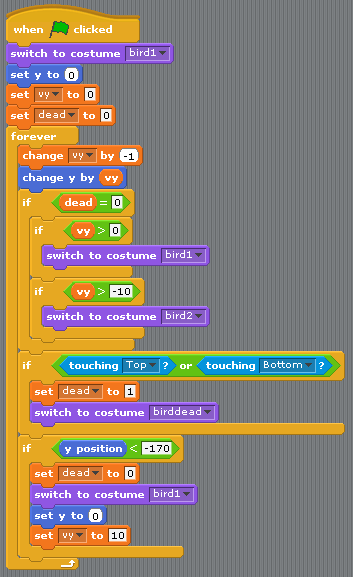
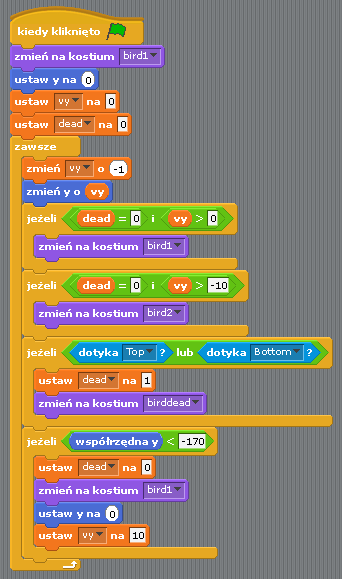
Translated Scratch screetshots

diff --git a/doc/from-scratch.rst b/doc/from-scratch.rst
@@ -60,12 +60,12 @@ W Scratchu osiągamy to tworząc dwa osobne skrypty dla górnej i dolnej rury.
 
 Podsumowując, co tu się dzieje:
 
-* Warunek ``x position < -240`` jest spełniony, gdy rura chowa się za lewą
+* Warunek ``współrzędna x < -240`` jest spełniony, gdy rura chowa się za lewą
   krawędzią ekranu — to sygnał do zresetowania położenia rur.
 * Zmienna ``pipe_height`` służy do koordynacji obu rur. Ponieważ przerwa między
   rurami powinna pozostać stała, nie możemy wybrać losowo położenia *obu* rur.
   Dlatego jeden ze skryptów ma ten mechanizm, a drugi nie.
-* Instrukcja ``set y position to pipe height +/- 230`` ustawia jedną rurę nad
+* Instrukcja ``ustaw y na pipe height +/- 230`` ustawia jedną rurę nad
   ``pipe_height``, a drugą rurę pod ``pipe_height``.
 
 Ten kod staje się znacznie prostszy w Pygame Zero. Możemy napisać jedną funkcję,
@@ -232,31 +232,31 @@ Wiele pojęć dostępnych w Scratchu da się przełożyć bezpośrednio do Pygam
 
 Tutaj jest kilka porównań:
 
-+----------------------------+------------------------------------------------+
-| W Scratchu                 | W Pygame Zero                                  |
-+============================+================================================+
-| ``change y by 1`` (w górę) | ``bird.y -= 1``                                |
-+----------------------------+------------------------------------------------+
-| ``change y by -1`` (w dół) | ``bird.y += 1``                                |
-+----------------------------+------------------------------------------------+
-| ``set costume to <name>``  | ``bird.image = 'name'``                        |
-+----------------------------+------------------------------------------------+
-| ``if dead = 0``            | ``if not bird.dead:``                          |
-+----------------------------+------------------------------------------------+
-| ``set dead to 0``          | ``bird.dead = False``                          |
-+----------------------------+------------------------------------------------+
-| ``if touching Top?``       | ``if bird.colliderect(pipe_top)``              |
-+----------------------------+------------------------------------------------+
-| ``When Flag clicked``...   | Umieść kod w funkcji ``update()``.             |
-| ``forever``                |                                                |
-+----------------------------+------------------------------------------------+
-| ``When [any] key pressed`` | ``def on_key_down():``                         |
-+----------------------------+------------------------------------------------+
-| ``pick random a to b``     | ``import random`` by załadować moduł           |
-|                            | ``random``, następnie ``random.randint(a, b)`` |
-+----------------------------+------------------------------------------------+
-| (0, 0) jest w środku sceny | (0, 0) jest w lewym górnym roku okna           |
-+----------------------------+------------------------------------------------+
++----------------------------------+------------------------------------------------+
+| W Scratchu                       | W Pygame Zero                                  |
++==================================+================================================+
+| ``zmień y o 1`` (w górę)         | ``bird.y -= 1``                                |
++----------------------------------+------------------------------------------------+
+| ``zmień y o -1`` (w dół)         | ``bird.y += 1``                                |
++----------------------------------+------------------------------------------------+
+| ``zmień na kostium <name>``      | ``bird.image = 'name'``                        |
++----------------------------------+------------------------------------------------+
+| ``jeżeli dead = 0``              | ``if not bird.dead:``                          |
++----------------------------------+------------------------------------------------+
+| ``ustaw dead na 0``              | ``bird.dead = False``                          |
++----------------------------------+------------------------------------------------+
+| ``jeżeli dotyka Top?``           | ``if bird.colliderect(pipe_top)``              |
++----------------------------------+------------------------------------------------+
+| ``kiedy kliknięto Flagę``…       | Umieść kod w funkcji ``update()``.             |
+| ``zawsze``                       |                                                |
++----------------------------------+------------------------------------------------+
+| ``kiedy klawisz […] naciśnięty`` | ``def on_key_down():``                         |
++----------------------------------+------------------------------------------------+
+| ``losuj liczbę pomiędzy A a B``  | ``import random`` by załadować moduł           |
+|                                  | ``random``, następnie ``random.randint(A, B)`` |
++----------------------------------+------------------------------------------------+
+| (0, 0) jest w środku sceny       | (0, 0) jest w lewym górnym roku okna           |
++----------------------------------+------------------------------------------------+
 
 Kod w Pythonie bywa czasem prostszy, bo może być zorganizowany
 w sposób pomagający go zrozumieć podczas czytaniu.
